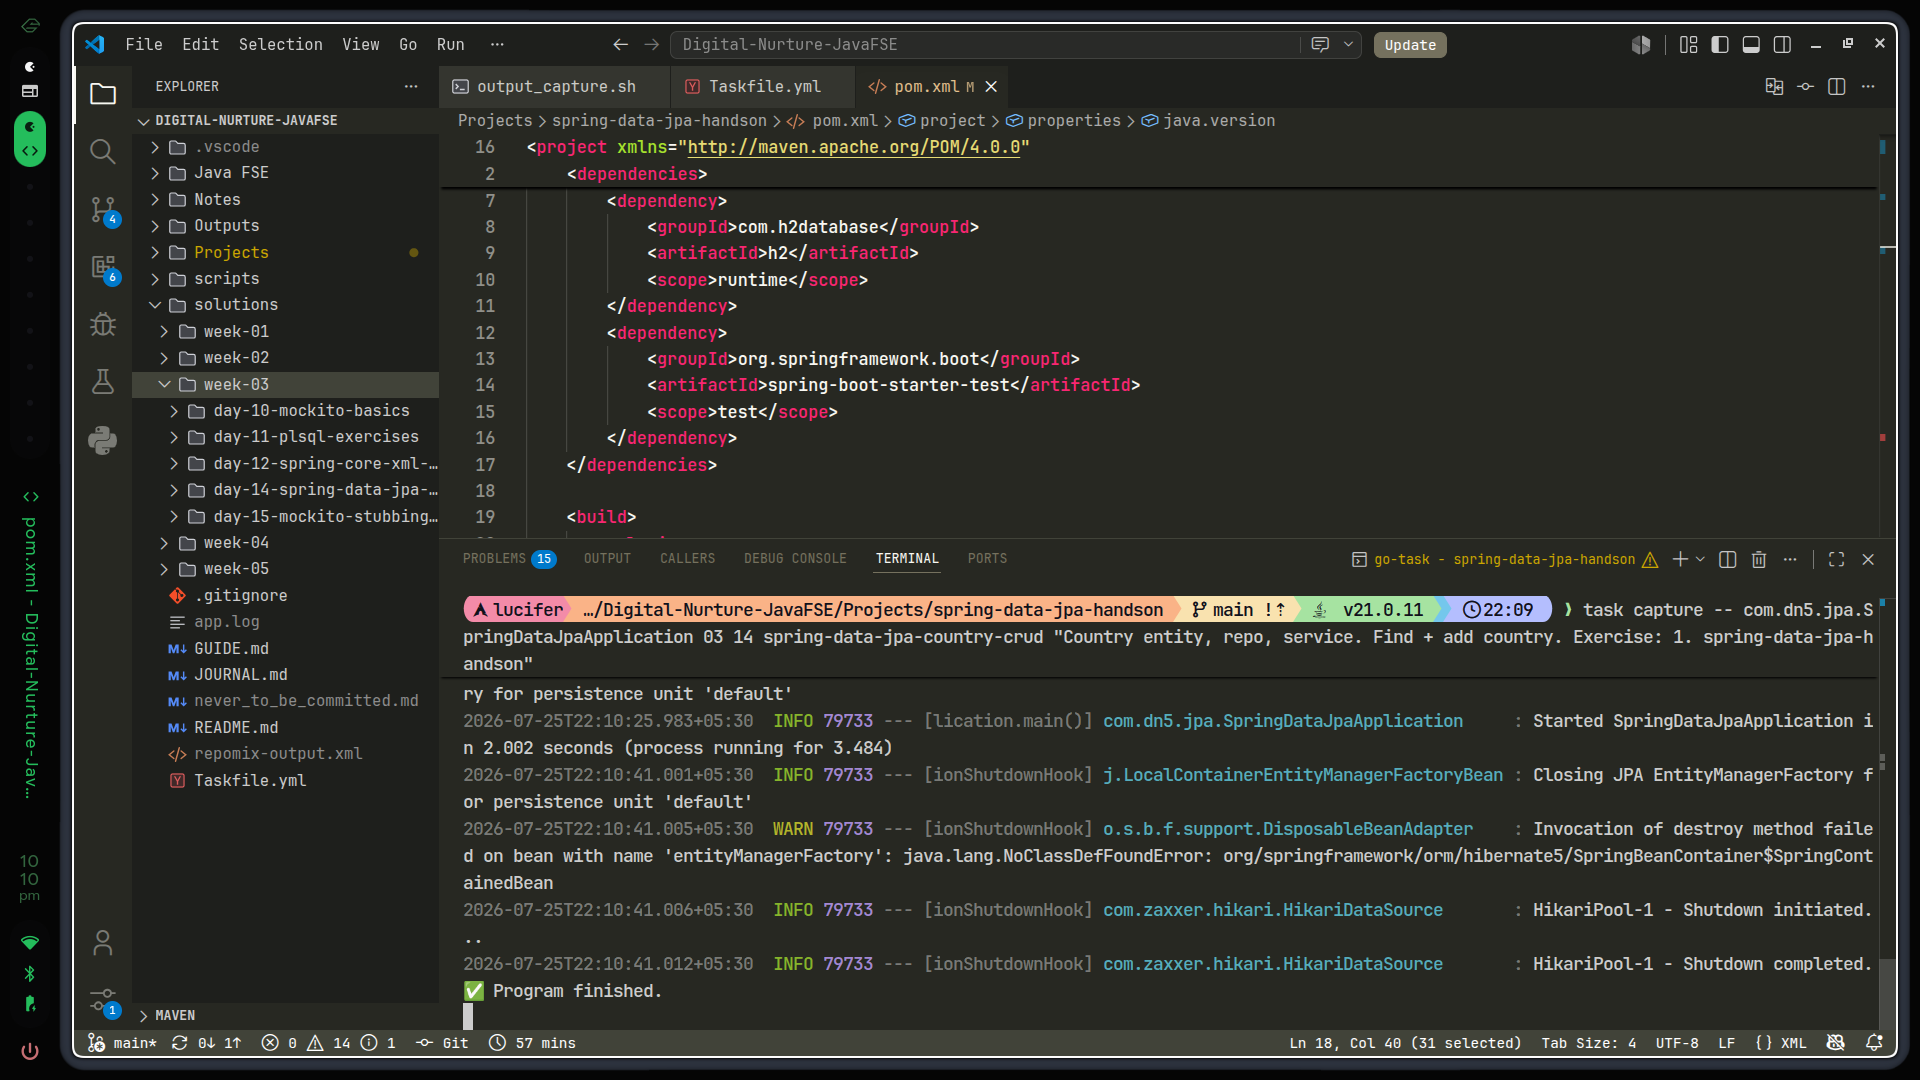
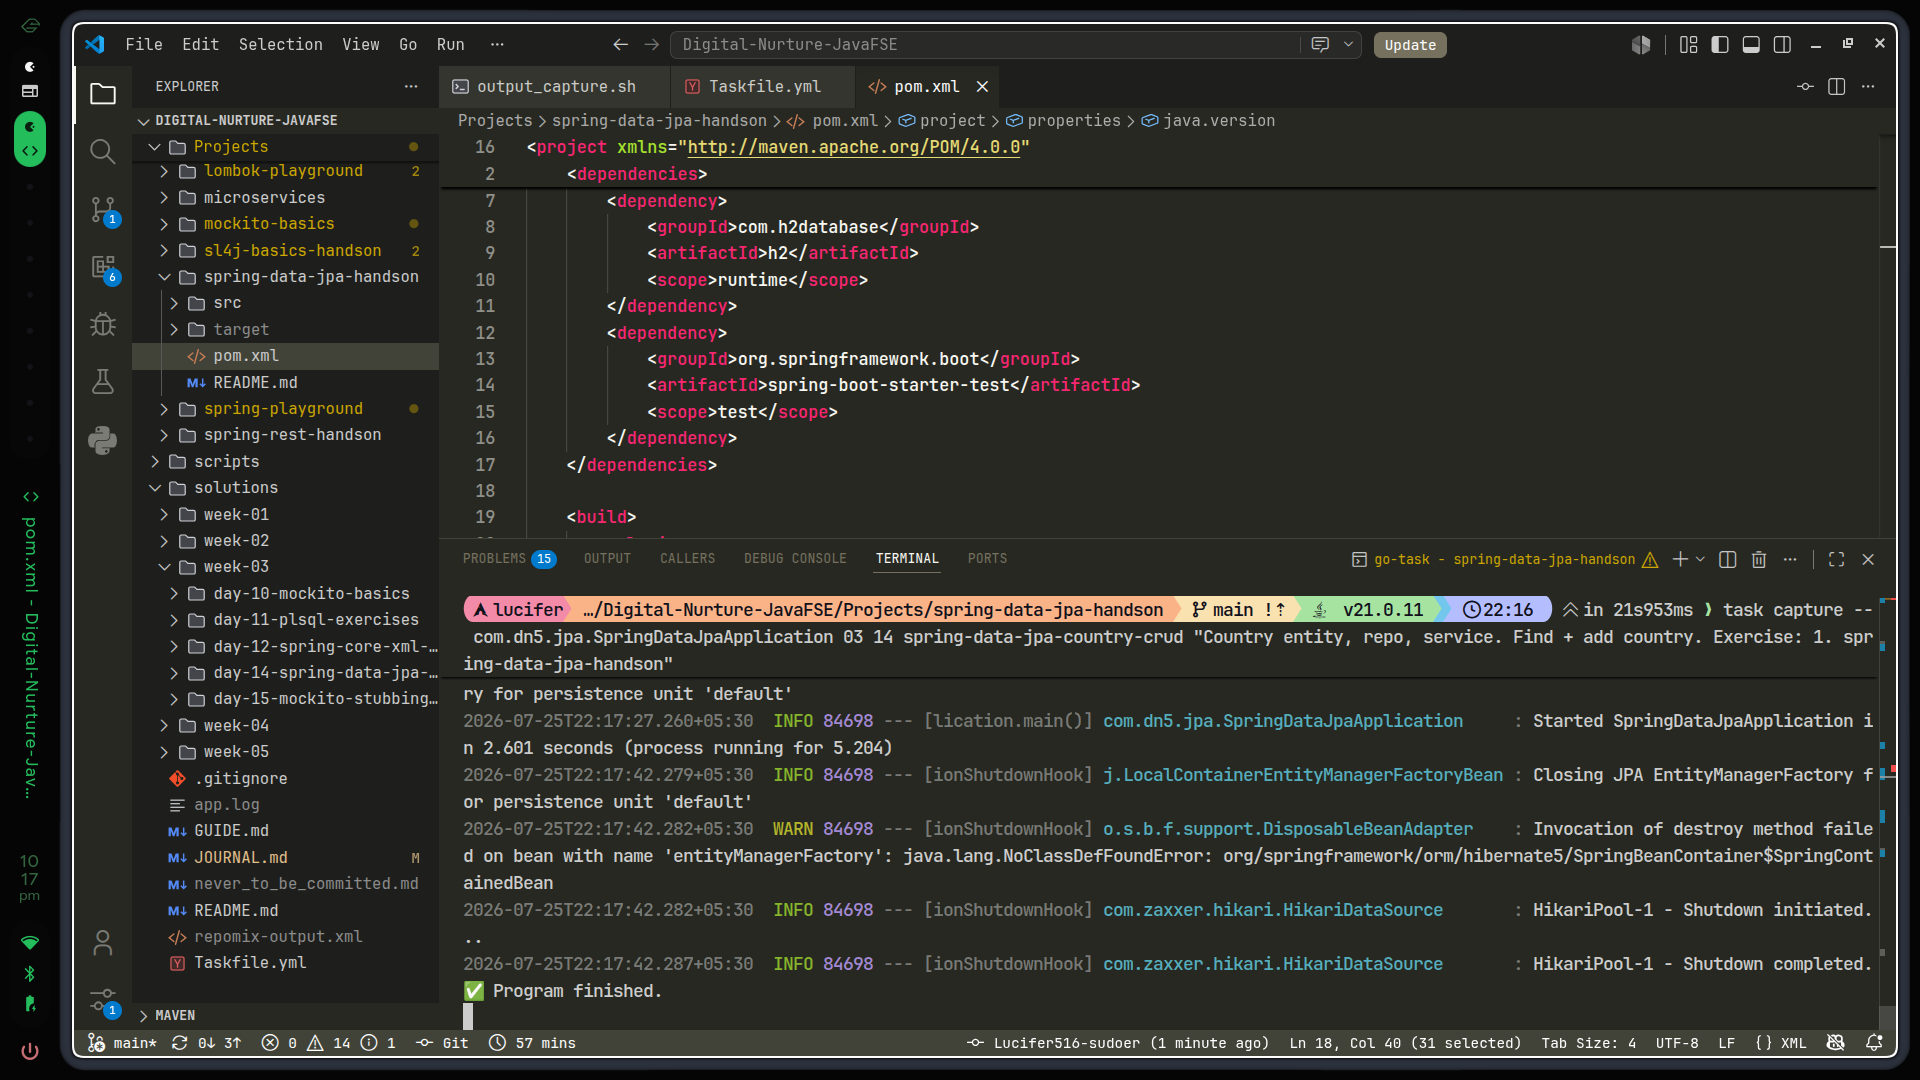
log: capture + solution spring-data-jpa-country-crud (week-03 day-14)

diff --git a/solutions/week-03/day-14-spring-data-jpa-country-crud/README.md b/solutions/week-03/day-14-spring-data-jpa-country-crud/README.md
@@ -1,4 +1,4 @@
-# 25th July, 2026 • 10:10:42 PM
+# 25th July, 2026 • 10:17:43 PM
 
 Country entity, repo, service. Find + add country. Exercise: 1. spring-data-jpa-handson
 
